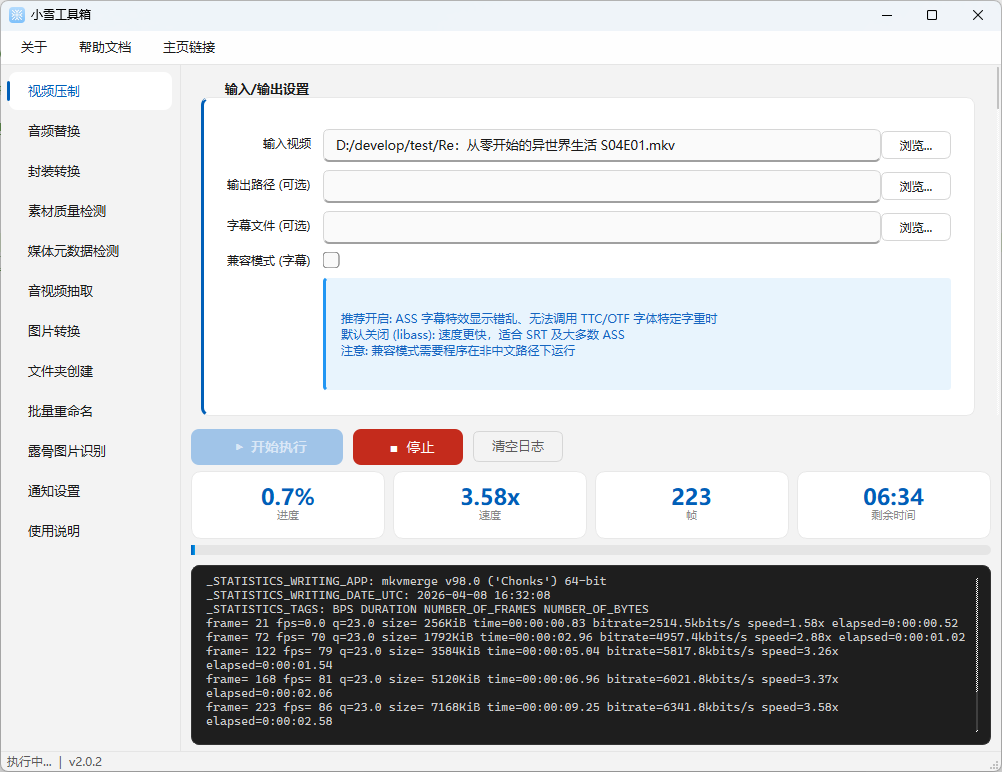
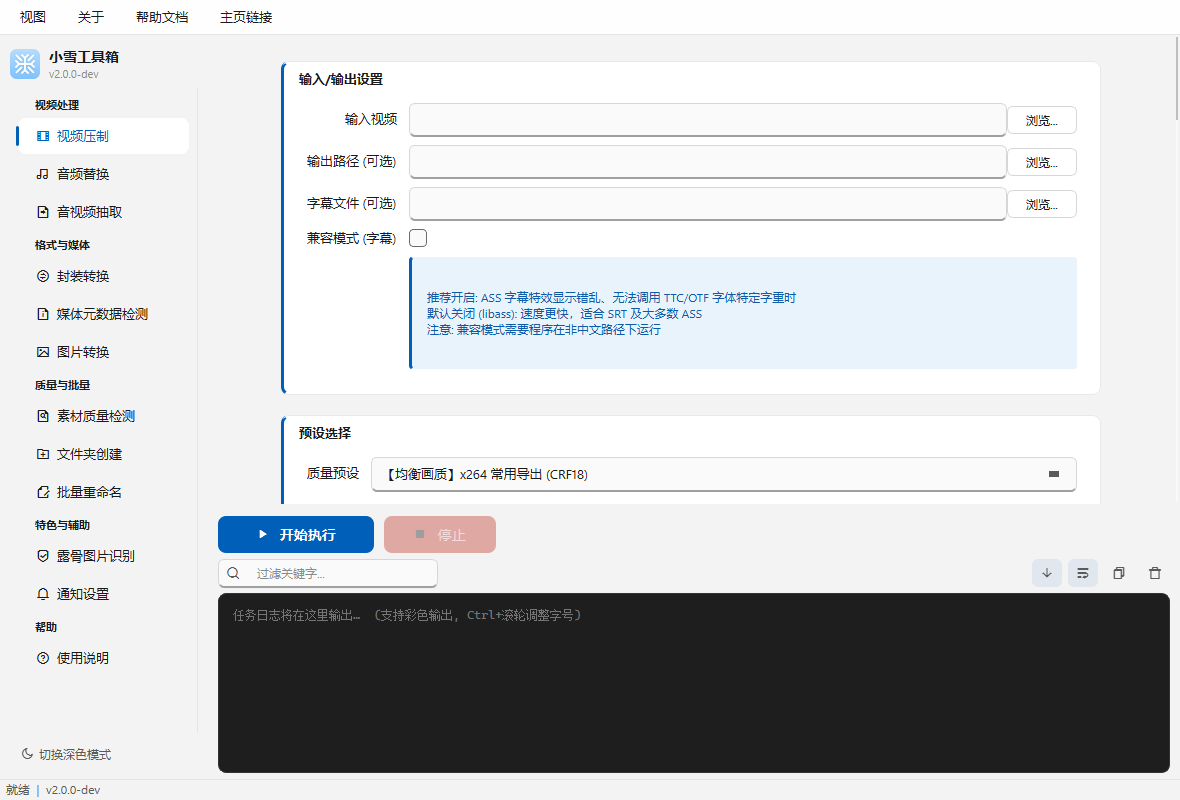
chore: qtawesome 依赖与打包配置, README 截图更新, CHANGELOG
- requirements.txt 新增 qtawesome>=1.3.0
- spec 打入 qtawesome 字体数据与 image 品牌资源
- README 预览图替换为新版界面 (含暗色主题)
- CHANGELOG 记录界面深度优化条目

diff --git a/CHANGELOG.md b/CHANGELOG.md
@@ -1,5 +1,39 @@
 # 更新日志
 
+## [Unreleased] - 界面深度优化 (feature/ui-refresh)
+
+### 主题系统
+- 设计令牌化重构: 全部颜色/字体/圆角收敛到 `PALETTES` 令牌表, QSS 由单一模板生成
+- 新增暗色主题 (Fluent Dark 规范), 菜单栏「视图」或侧边栏底部一键切换, 即时生效并持久化
+- `apply_theme` 同步 QPalette, 保证未覆盖控件在暗色下可读
+- 统一提示色: 轨道面板/帮助页原先混用的 Material 色值全部并入主题令牌
+
+### 导航与品牌
+- 侧边栏新增品牌区 (Logo + 名称 + 版本号, Logo 随主题自动切换)
+- 12 个功能页按「视频处理 / 格式与媒体 / 质量与批量 / 特色与辅助 / 帮助」分组
+- 全套图标系统 (qtawesome): 侧边栏/执行/停止/清空/菜单, 选中态随强调色换色
+- 窗口几何与最大化状态持久化, 最小尺寸 960x640, 首次启动居中
+- 重设计关于对话框 (Logo/版本/许可/第三方组件/链接)
+
+### 表单与页面
+- 表单内容列限宽 860px 居中, 宽窗口下不再被拉长
+- 分组标题内嵌卡片; 提示条/说明文字语义化样式随主题联动
+- 文件拖放时输入框强调色高亮反馈
+- 视频压制页「高级选项」改为可折叠面板
+- 帮助页内嵌 HTML 配色随主题联动
+
+### 执行区与日志
+- 日志面板新增工具条: 关键字过滤 / 自动滚动 / 自动换行 / 复制全部 / 清空
+- 日志支持 Ctrl+滚轮调整字号, 空状态引导文案
+- 指标卡数值改用等宽字体, 避免跳动
+- 移除整页透明度切换动画 (复杂页面 Windows 上易掉帧), 改纯位移滑入
+- 新增「减少动画」开关; Ctrl+Return 快捷执行
+
+### 打包与依赖
+- 新增依赖: qtawesome (图标库)
+- PyInstaller spec 打入 qtawesome 字体数据与 image 品牌资源
+
+
 ## [2.0.2] - 2026-04-25
 
 ### UI 现代化 (Fluent Design 风格)

diff --git a/README.md b/README.md
@@ -36,6 +36,8 @@
 ![预览2](image/image2.png)
 ![预览3](image/image3.png)
 
+> 界面基于 Windows 11 Fluent Design 风格，支持亮色/暗色双主题，可在「视图」菜单或侧边栏底部切换。
+
 ### 视频压制
 
 支持 H.264/H.265 编码，内置四档画质预设，可选字幕烧录。
